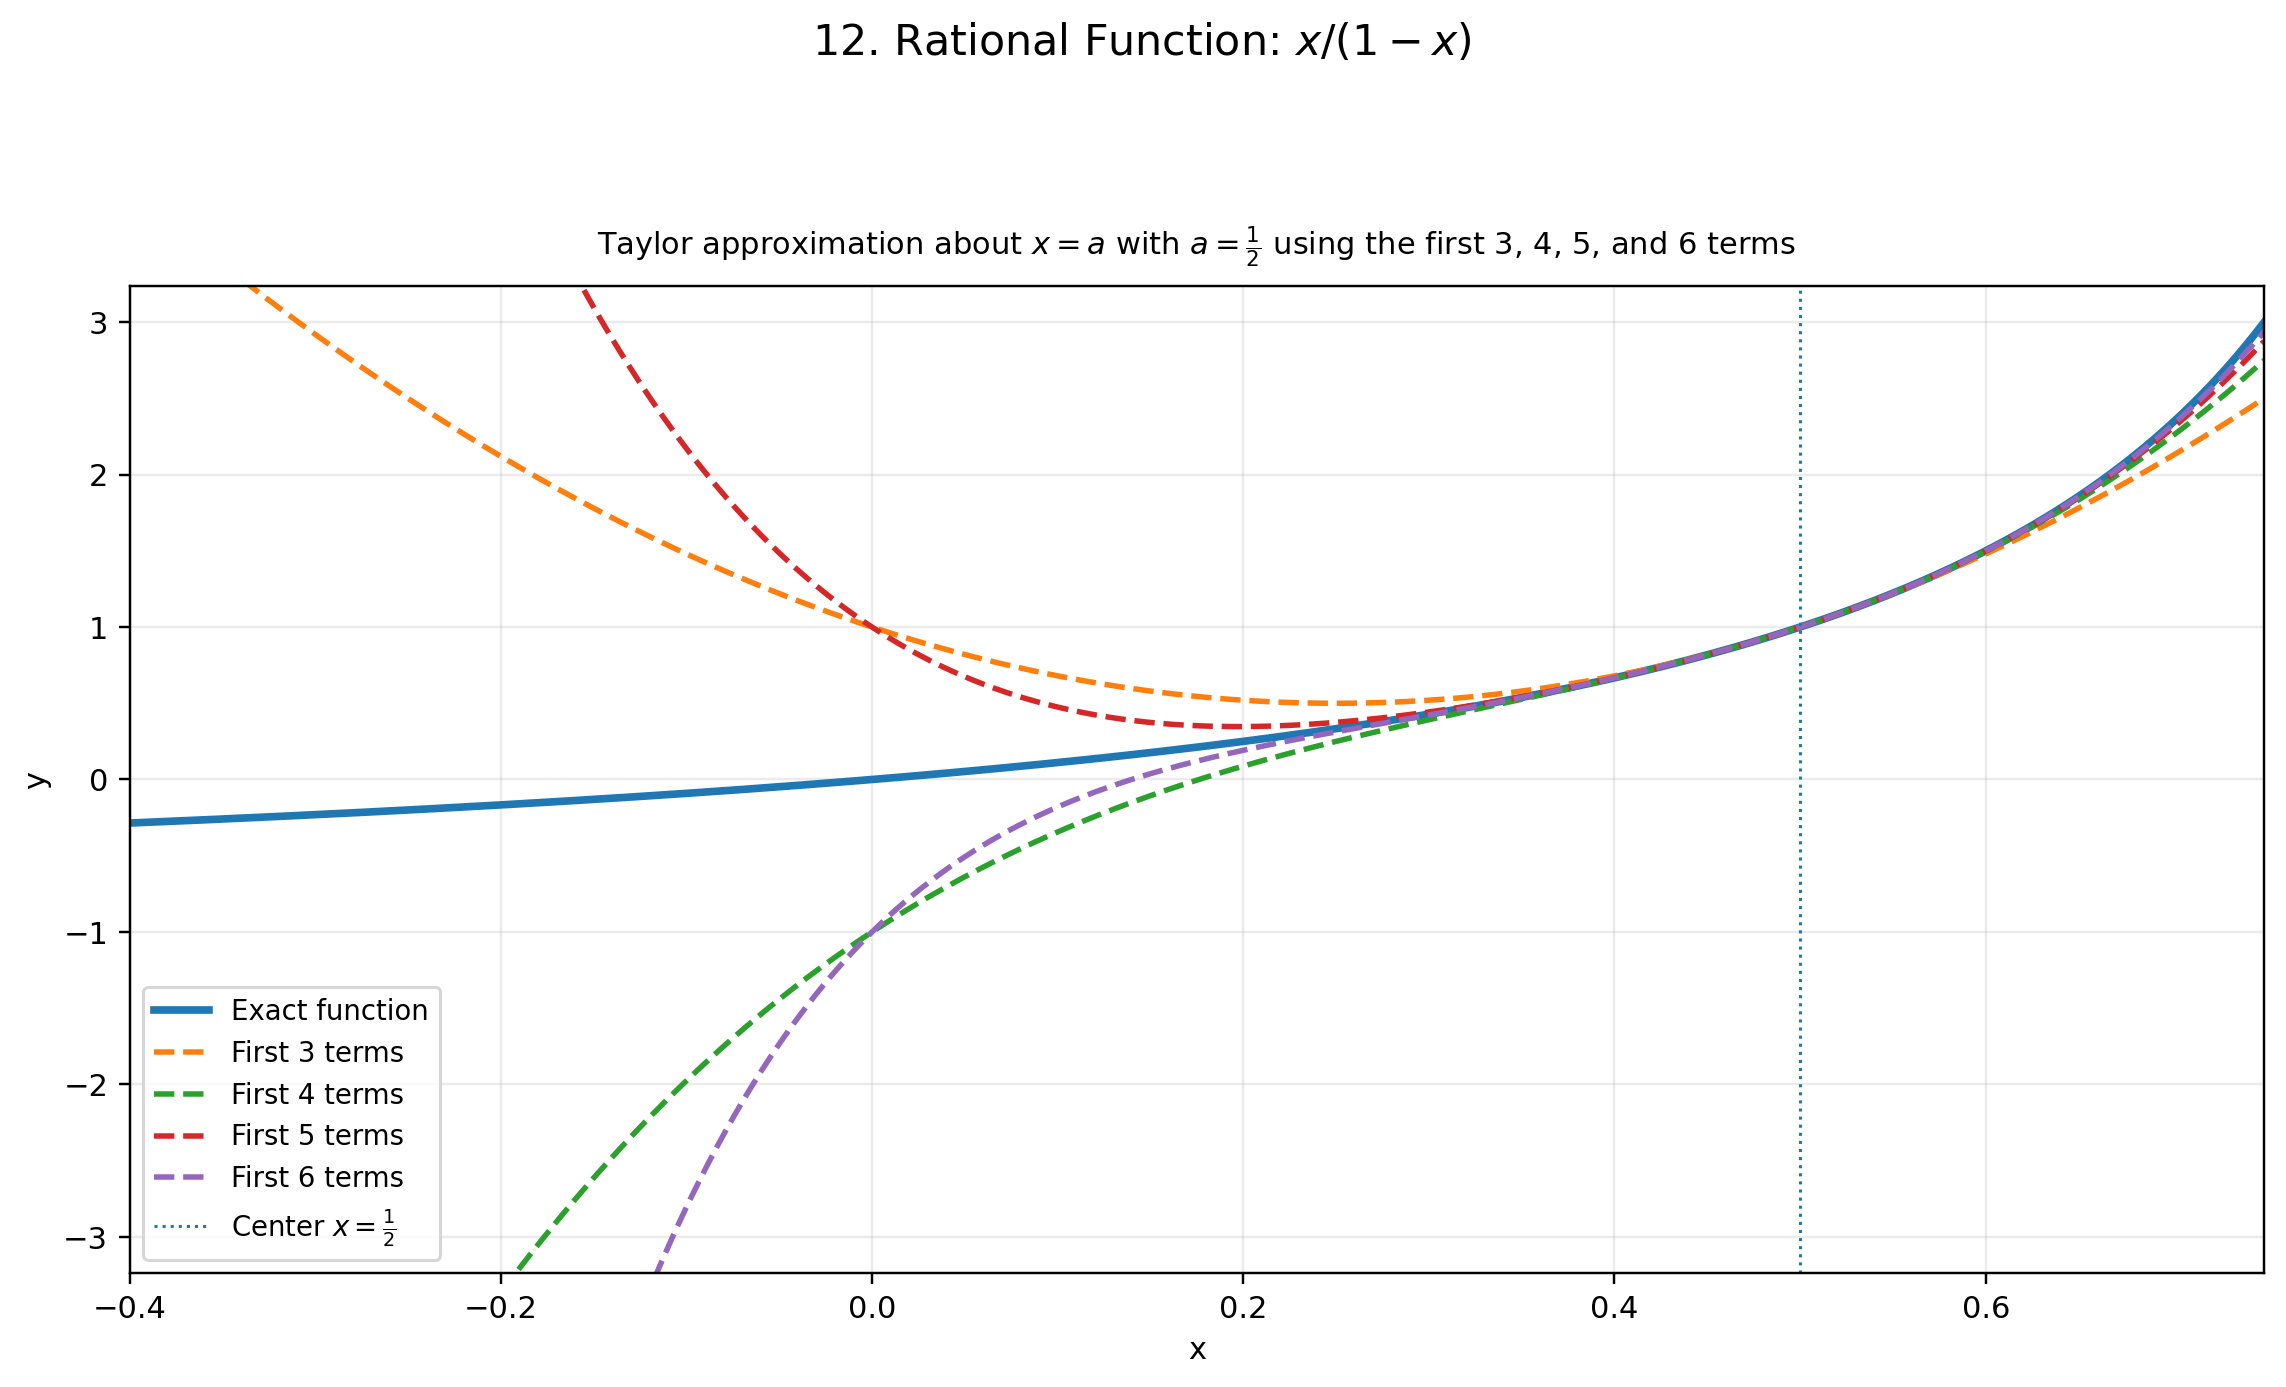
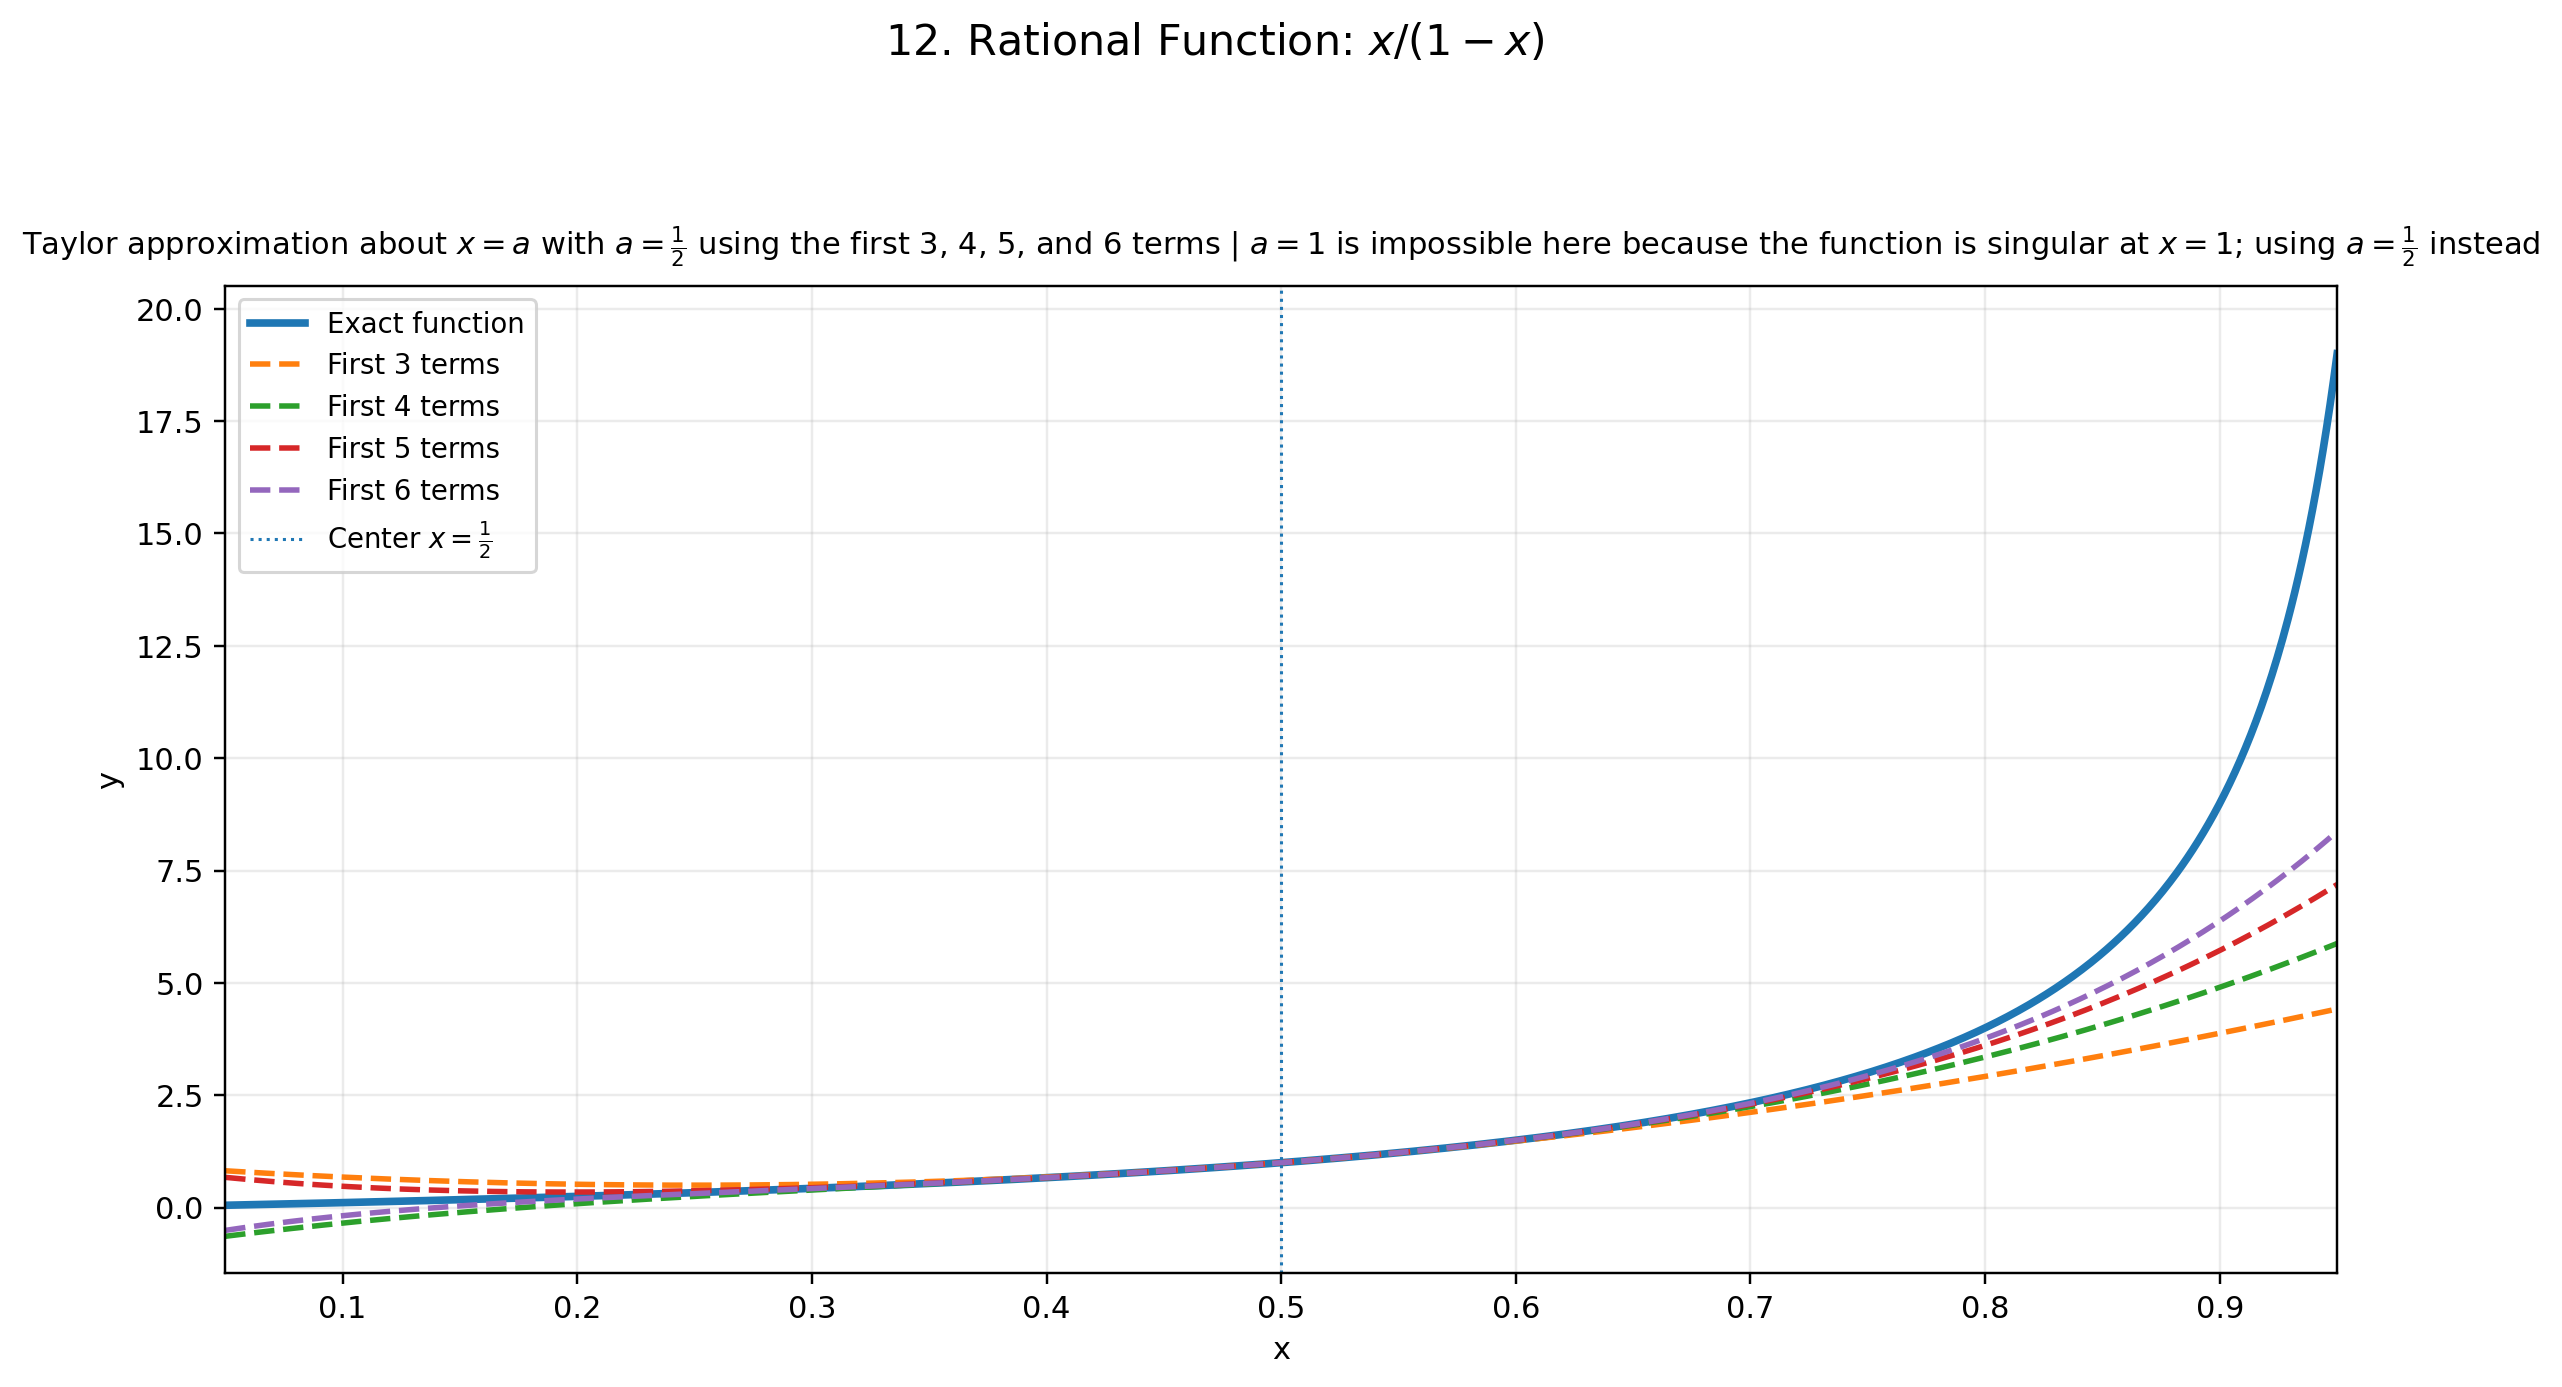
Add files via upload

diff --git a/research/taylor_about_a_pngs/generate_taylor_about_a_pngs.py b/research/taylor_about_a_pngs/generate_taylor_about_a_pngs.py
@@ -4,11 +4,18 @@ Generate one PNG for each of 20 standard functions, comparing the exact function
 with its Taylor polynomial approximations about x = a using the first 3, 4, 5,
 and 6 terms.
 
-This revised version is synchronized with the companion Maclaurin script:
-- identical filenames relative to the HTML placeholders,
-- identical x-ranges for each matching subsection,
-- identical figure size,
-- identical y-axis limits computed from the exact function on the shared domain.
+Revised per user request:
+- Taylor plots are centered at x = 1 whenever the function is analytic there.
+- The x-window is symmetric about the Taylor center.
+  Example: Maclaurin window [-2, 2] becomes Taylor window [-1, 3] when a = 1.
+- Folder names and output filenames are kept unchanged so the existing HTML
+  continues to work.
+
+Important exception:
+Some functions are not defined at x = 1, so a Taylor expansion about x = 1 is
+impossible. For these, the script keeps a safe non-singular center and states
+that clearly in the plot subtitle:
+    1/(1-x), 1/(1-x)^2, x/(1-x), ln(1-x), 1/sqrt(1-x)
 """
 
 from __future__ import annotations
@@ -34,38 +41,48 @@ class FunctionSpec:
     slug: str
     title: str
     expr: sp.Expr
+    mac_x_min: float
+    mac_x_max: float
     a_value: sp.Expr
-    x_min: float
-    x_max: float
     note: str = ""
 
 
+def symmetric_window_about(center: float, mac_x_min: float, mac_x_max: float) -> tuple[float, float]:
+    half_width = max(abs(mac_x_min), abs(mac_x_max))
+    return center - half_width, center + half_width
+
+
 FUNCTIONS: List[FunctionSpec] = [
-    FunctionSpec(1,  "exponential",               r"Exponential Function: $e^x$",                    sp.exp(x),                sp.Rational(1, 2), -2.0,  2.0),
-    FunctionSpec(2,  "sine",                      r"Sine Function: $\sin x$",                        sp.sin(x),                sp.Rational(1, 2), -3.0,  3.0),
-    FunctionSpec(3,  "cosine",                    r"Cosine Function: $\cos x$",                      sp.cos(x),                sp.Rational(1, 2), -3.0,  3.0),
-    FunctionSpec(4,  "sinh",                      r"Hyperbolic Sine: $\sinh x$",                     sp.sinh(x),               sp.Rational(1, 2), -2.0,  2.0),
-    FunctionSpec(5,  "cosh",                      r"Hyperbolic Cosine: $\cosh x$",                   sp.cosh(x),               sp.Rational(1, 2), -2.0,  2.0),
-    FunctionSpec(6,  "reciprocal",                r"Reciprocal Function: $1/x$",                      1 / x,                    sp.Integer(1),     0.35,  1.65),
-    FunctionSpec(7,  "logarithm",                 r"Natural Logarithm: $\ln x$",                      sp.log(x),                sp.Integer(1),     0.35,  1.65),
-    FunctionSpec(8,  "geometric_minus",           r"Geometric Kernel: $1/(1-x)$",                     1 / (1 - x),              sp.Rational(1, 2), -0.4,  0.75),
-    FunctionSpec(9,  "geometric_plus",            r"Alternating Geometric Kernel: $1/(1+x)$",         1 / (1 + x),              sp.Rational(1, 2), -0.75, 1.2),
-    FunctionSpec(10, "squared_geometric_minus",   r"Squared Geometric Kernel: $1/(1-x)^2$",           1 / (1 - x) ** 2,         sp.Rational(1, 2), -0.4,  0.75),
-    FunctionSpec(11, "squared_geometric_plus",    r"Squared Alternating Kernel: $1/(1+x)^2$",         1 / (1 + x) ** 2,         sp.Rational(1, 2), -0.75, 1.2),
-    FunctionSpec(12, "x_over_1_minus_x",          r"Rational Function: $x/(1-x)$",                    x / (1 - x),              sp.Rational(1, 2), -0.4,  0.75),
-    FunctionSpec(13, "x_over_1_plus_x",           r"Rational Function: $x/(1+x)$",                    x / (1 + x),              sp.Rational(1, 2), -0.75, 1.2),
-    FunctionSpec(14, "log_1_plus_x",              r"Logarithm of $1+x$: $\ln(1+x)$",                 sp.log(1 + x),            sp.Rational(1, 2), -0.75, 1.2),
-    FunctionSpec(15, "log_1_minus_x",             r"Logarithm of $1-x$: $\ln(1-x)$",                 sp.log(1 - x),            sp.Rational(1, 2), -0.4,  0.75),
-    FunctionSpec(16, "binomial_alpha",            rf"General Binomial Function: $(1+x)^{{{sp.latex(ALPHA)}}}$", (1 + x) ** ALPHA, sp.Rational(1, 2), -0.75, 1.2, rf"Using $\alpha={sp.latex(ALPHA)}$ for plotting"),
-    FunctionSpec(17, "sqrt_1_plus_x",             r"Square Root: $\sqrt{1+x}$",                       sp.sqrt(1 + x),           sp.Rational(1, 2), -0.75, 1.2),
-    FunctionSpec(18, "inv_sqrt_1_minus_x",        r"Inverse Square Root: $1/\sqrt{1-x}$",            1 / sp.sqrt(1 - x),       sp.Rational(1, 2), -0.4,  0.75),
-    FunctionSpec(19, "inv_sqrt_1_plus_x",         r"Inverse Square Root: $1/\sqrt{1+x}$",            1 / sp.sqrt(1 + x),       sp.Rational(1, 2), -0.75, 1.2),
-    FunctionSpec(20, "arctan",                    r"Arctangent: $\arctan x$",                         sp.atan(x),               sp.Rational(1, 2), -1.5,  1.5),
+    FunctionSpec(1,  "exponential",             r"Exponential Function: $e^x$",                    sp.exp(x),                -2.0,  2.0,  sp.Integer(1)),
+    FunctionSpec(2,  "sine",                    r"Sine Function: $\sin x$",                        sp.sin(x),                -3.0,  3.0,  sp.Integer(1)),
+    FunctionSpec(3,  "cosine",                  r"Cosine Function: $\cos x$",                      sp.cos(x),                -3.0,  3.0,  sp.Integer(1)),
+    FunctionSpec(4,  "sinh",                    r"Hyperbolic Sine: $\sinh x$",                     sp.sinh(x),               -2.0,  2.0,  sp.Integer(1)),
+    FunctionSpec(5,  "cosh",                    r"Hyperbolic Cosine: $\cosh x$",                   sp.cosh(x),               -2.0,  2.0,  sp.Integer(1)),
+    FunctionSpec(6,  "reciprocal",              r"Reciprocal Function: $1/x$",                     1 / x,                     0.35,  1.65, sp.Integer(1)),
+    FunctionSpec(7,  "logarithm",               r"Natural Logarithm: $\ln x$",                     sp.log(x),                 0.35,  1.65, sp.Integer(1)),
+    FunctionSpec(8,  "geometric_minus",         r"Geometric Kernel: $1/(1-x)$",                    1 / (1 - x),              -0.4,  0.75, sp.Rational(1, 2),
+                 r"$a=1$ is impossible here because the function is singular at $x=1$; using $a=\frac{1}{2}$ instead"),
+    FunctionSpec(9,  "geometric_plus",          r"Alternating Geometric Kernel: $1/(1+x)$",        1 / (1 + x),              -0.75, 1.2,  sp.Integer(1)),
+    FunctionSpec(10, "squared_geometric_minus", r"Squared Geometric Kernel: $1/(1-x)^2$",          1 / (1 - x) ** 2,         -0.4,  0.75, sp.Rational(1, 2),
+                 r"$a=1$ is impossible here because the function is singular at $x=1$; using $a=\frac{1}{2}$ instead"),
+    FunctionSpec(11, "squared_geometric_plus",  r"Squared Alternating Kernel: $1/(1+x)^2$",        1 / (1 + x) ** 2,         -0.75, 1.2,  sp.Integer(1)),
+    FunctionSpec(12, "x_over_1_minus_x",        r"Rational Function: $x/(1-x)$",                   x / (1 - x),              -0.4,  0.75, sp.Rational(1, 2),
+                 r"$a=1$ is impossible here because the function is singular at $x=1$; using $a=\frac{1}{2}$ instead"),
+    FunctionSpec(13, "x_over_1_plus_x",         r"Rational Function: $x/(1+x)$",                   x / (1 + x),              -0.75, 1.2,  sp.Integer(1)),
+    FunctionSpec(14, "log_1_plus_x",            r"Logarithm of $1+x$: $\ln(1+x)$",                 sp.log(1 + x),            -0.75, 1.2,  sp.Integer(1)),
+    FunctionSpec(15, "log_1_minus_x",           r"Logarithm of $1-x$: $\ln(1-x)$",                 sp.log(1 - x),            -0.4,  0.75, sp.Rational(1, 2),
+                 r"$a=1$ is impossible here because the function is singular at $x=1$; using $a=\frac{1}{2}$ instead"),
+    FunctionSpec(16, "binomial_alpha",          rf"General Binomial Function: $(1+x)^{{{sp.latex(ALPHA)}}}$", (1 + x) ** ALPHA, -0.75, 1.2, sp.Integer(1),
+                 rf"Using $\alpha={sp.latex(ALPHA)}$ for plotting"),
+    FunctionSpec(17, "sqrt_1_plus_x",           r"Square Root: $\sqrt{1+x}$",                      sp.sqrt(1 + x),           -0.75, 1.2,  sp.Integer(1)),
+    FunctionSpec(18, "inv_sqrt_1_minus_x",      r"Inverse Square Root: $1/\sqrt{1-x}$",            1 / sp.sqrt(1 - x),       -0.4,  0.75, sp.Rational(1, 2),
+                 r"$a=1$ is impossible here because the function is singular at $x=1$; using $a=\frac{1}{2}$ instead"),
+    FunctionSpec(19, "inv_sqrt_1_plus_x",       r"Inverse Square Root: $1/\sqrt{1+x}$",            1 / sp.sqrt(1 + x),       -0.75, 1.2,  sp.Integer(1)),
+    FunctionSpec(20, "arctan",                  r"Arctangent: $\arctan x$",                        sp.atan(x),               -1.5,  1.5,  sp.Integer(1)),
 ]
 
 
 def taylor_polynomial(expr: sp.Expr, a_value: sp.Expr, n_terms: int) -> sp.Expr:
-    """Return the Taylor polynomial using the first n terms from (x-a)^0 upward."""
     poly = sp.Integer(0)
     for k in range(n_terms):
         coeff = sp.simplify(sp.diff(expr, x, k).subs(x, a_value) / sp.factorial(k))
@@ -120,7 +137,16 @@ def clip_for_display(y: np.ndarray, y_limits: tuple[float, float]) -> np.ndarray
 
 
 def make_plot(spec: FunctionSpec, output_dir: Path) -> None:
-    xs = np.linspace(spec.x_min, spec.x_max, 1200)
+    center_float = float(sp.N(spec.a_value))
+    x_min, x_max = symmetric_window_about(center_float, spec.mac_x_min, spec.mac_x_max)
+
+    if spec.a_value == sp.Rational(1, 2) and spec.slug in {
+        "geometric_minus", "squared_geometric_minus", "x_over_1_minus_x",
+        "log_1_minus_x", "inv_sqrt_1_minus_x"
+    }:
+        x_min, x_max = 0.05, 0.95
+
+    xs = np.linspace(x_min, x_max, 1200)
     exact_y = safe_numeric_callable(spec.expr)(xs)
     y_limits = matched_y_limits(exact_y)
     exact_y = clip_for_display(exact_y, y_limits)
@@ -131,6 +157,7 @@ def make_plot(spec: FunctionSpec, output_dir: Path) -> None:
 
     fig, ax = plt.subplots(figsize=FIGSIZE)
     fig.suptitle(f"{spec.index}. {spec.title}", fontsize=14)
+
     subtitle = rf"Taylor approximation about $x=a$ with $a={sp.latex(spec.a_value)}$ using the first 3, 4, 5, and 6 terms"
     if spec.note:
         subtitle += f" | {spec.note}"
@@ -140,8 +167,8 @@ def make_plot(spec: FunctionSpec, output_dir: Path) -> None:
     for n, y_poly in zip(term_counts, y_polys):
         ax.plot(xs, y_poly, linewidth=1.8, linestyle="--", label=f"First {n} terms")
 
-    ax.axvline(float(sp.N(spec.a_value)), linestyle=":", linewidth=1.0, label=rf"Center $x={sp.latex(spec.a_value)}$")
-    ax.set_xlim(spec.x_min, spec.x_max)
+    ax.axvline(center_float, linestyle=":", linewidth=1.0, label=rf"Center $x={sp.latex(spec.a_value)}$")
+    ax.set_xlim(x_min, x_max)
     ax.set_ylim(*y_limits)
     ax.set_xlabel("x")
     ax.set_ylabel("y")
